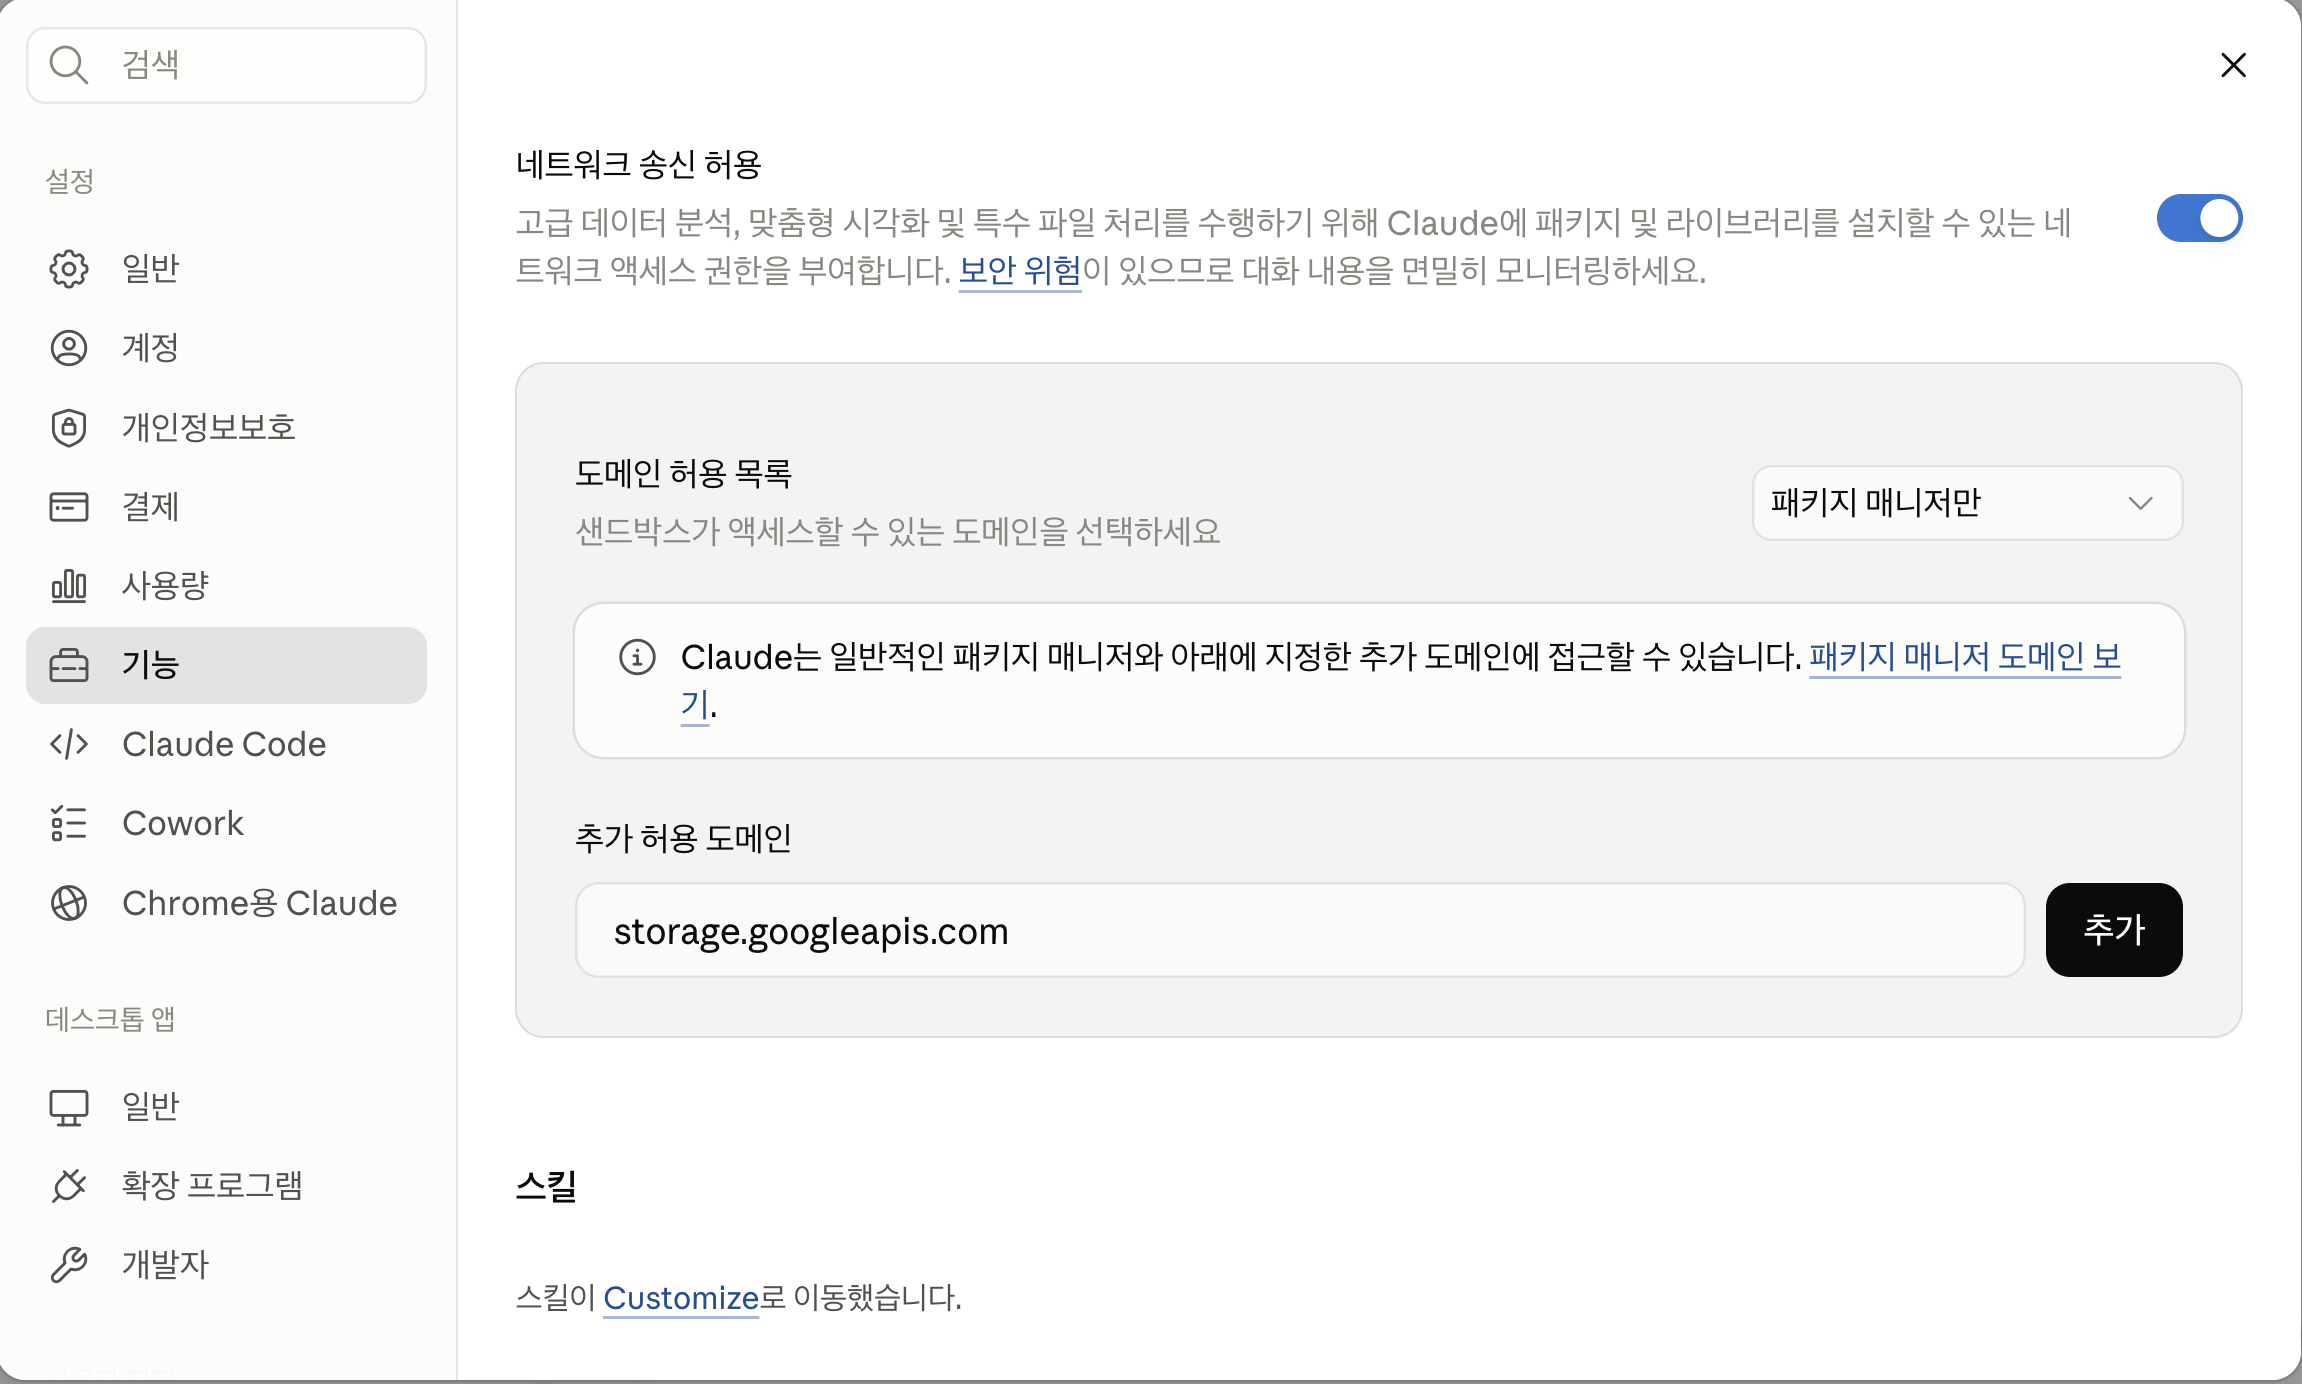
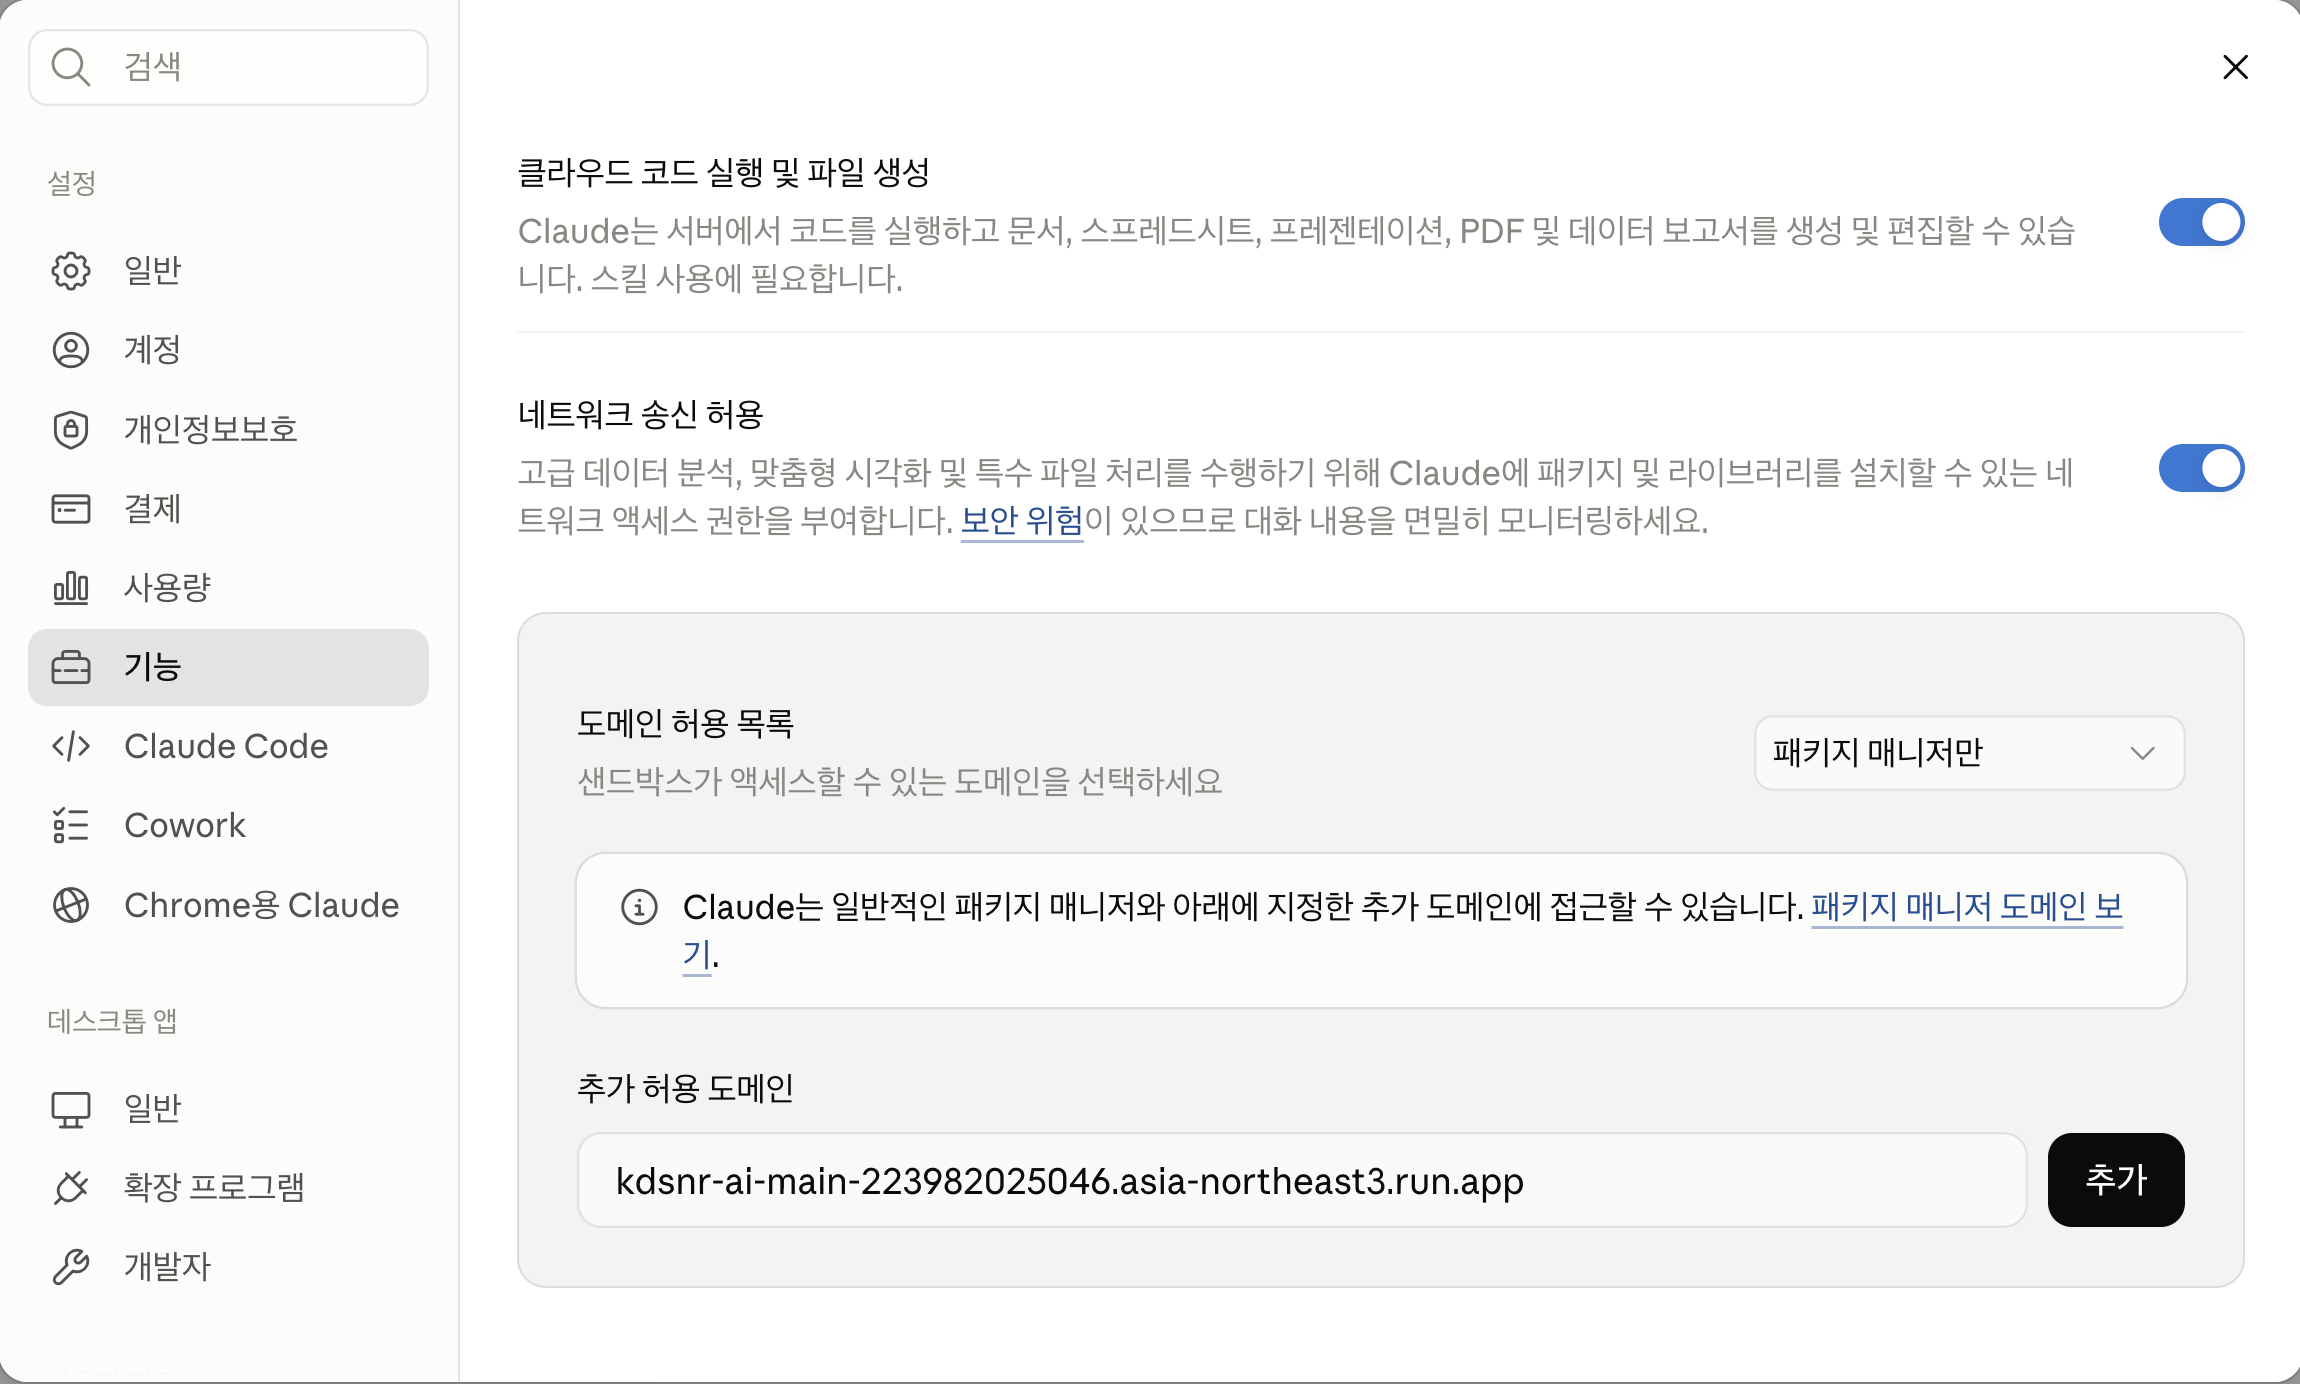
허용 도메인을 kdsnr-ai 서버 주소로 바꾼다
파일을 구글 저장소가 아니라 kdsnr-ai 서버로 직접 올리도록 바뀌었다. 사용자가
열어 줄 도메인이 구글 저장소 전체에서 우리 주소 하나로 좁아진다.

켜야 하는 항목이 둘이라 본문에 함께 적고, 두 항목이 모두 보이는 화면으로
스크린샷을 교체한다.

diff --git a/mcp-setup.html b/mcp-setup.html
@@ -203,13 +203,13 @@
 </figure>
 
 <h3>6. 파일 업로드 허용하기</h3>
-<p>Claude는 대화에 첨부한 파일을 커넥터로 바로 넘기지 못합니다. 대신 Claude가 파일을 kdsnr-ai 저장소로 직접 올릴 수 있도록, 설정에서 네트워크 사용을 한 번 허용합니다.</p>
+<p>Claude는 대화에 첨부한 파일을 커넥터로 바로 넘기지 못합니다. 대신 Claude가 파일을 kdsnr-ai 서버로 직접 올릴 수 있도록, 설정에서 한 번 허용합니다.</p>
 <div class="note setup-info">사용자가 Claude에 첨부한 <strong>파일에 한해서만</strong> kdsnr-ai 서버로 전송됩니다.<br>전송된 파일은 1시간 이내 자동 삭제되며, 채팅 내용 및 개인정보에 대한 접근은 일절 불가능합니다.</div>
-<p><strong>설정 → 기능</strong>에서 <strong>네트워크 송신 허용</strong>을 켭니다. <strong>추가 허용 도메인</strong> 입력란에는 아래 주소를 그대로 붙여 넣고 <strong>추가</strong>를 누릅니다.</p>
-<pre><code>storage.googleapis.com</code></pre>
+<p><strong>설정 → 기능</strong>에서 <strong>클라우드 코드 실행 및 파일 생성</strong>과 <strong>네트워크 송신 허용</strong>을 켭니다. <strong>추가 허용 도메인</strong> 입력란에는 아래 주소를 그대로 붙여 넣고 <strong>추가</strong>를 누릅니다.</p>
+<pre><code>kdsnr-ai-main-223982025046.asia-northeast3.run.app</code></pre>
 <figure class="setup-figure medium">
-<a href="assets/screenshot/mcp/claude/original/08-network-egress.png" target="_blank" rel="noopener"><img src="assets/screenshot/mcp/claude/08-network-egress.png" alt="Claude 설정의 기능 화면에서 네트워크 송신 허용을 켜고 추가 허용 도메인에 storage.googleapis.com을 입력한 화면"></a>
-<figcaption>네트워크 송신을 켜고 허용 도메인을 추가합니다.</figcaption>
+<a href="assets/screenshot/mcp/claude/original/08-network-egress.png" target="_blank" rel="noopener"><img src="assets/screenshot/mcp/claude/08-network-egress.png" alt="Claude 설정의 기능 화면에서 코드 실행과 네트워크 송신 허용을 켜고 추가 허용 도메인을 입력한 화면"></a>
+<figcaption>두 항목을 켜고 허용 도메인을 추가합니다.</figcaption>
 </figure>
 
 <h3>7. 사용하기</h3>
